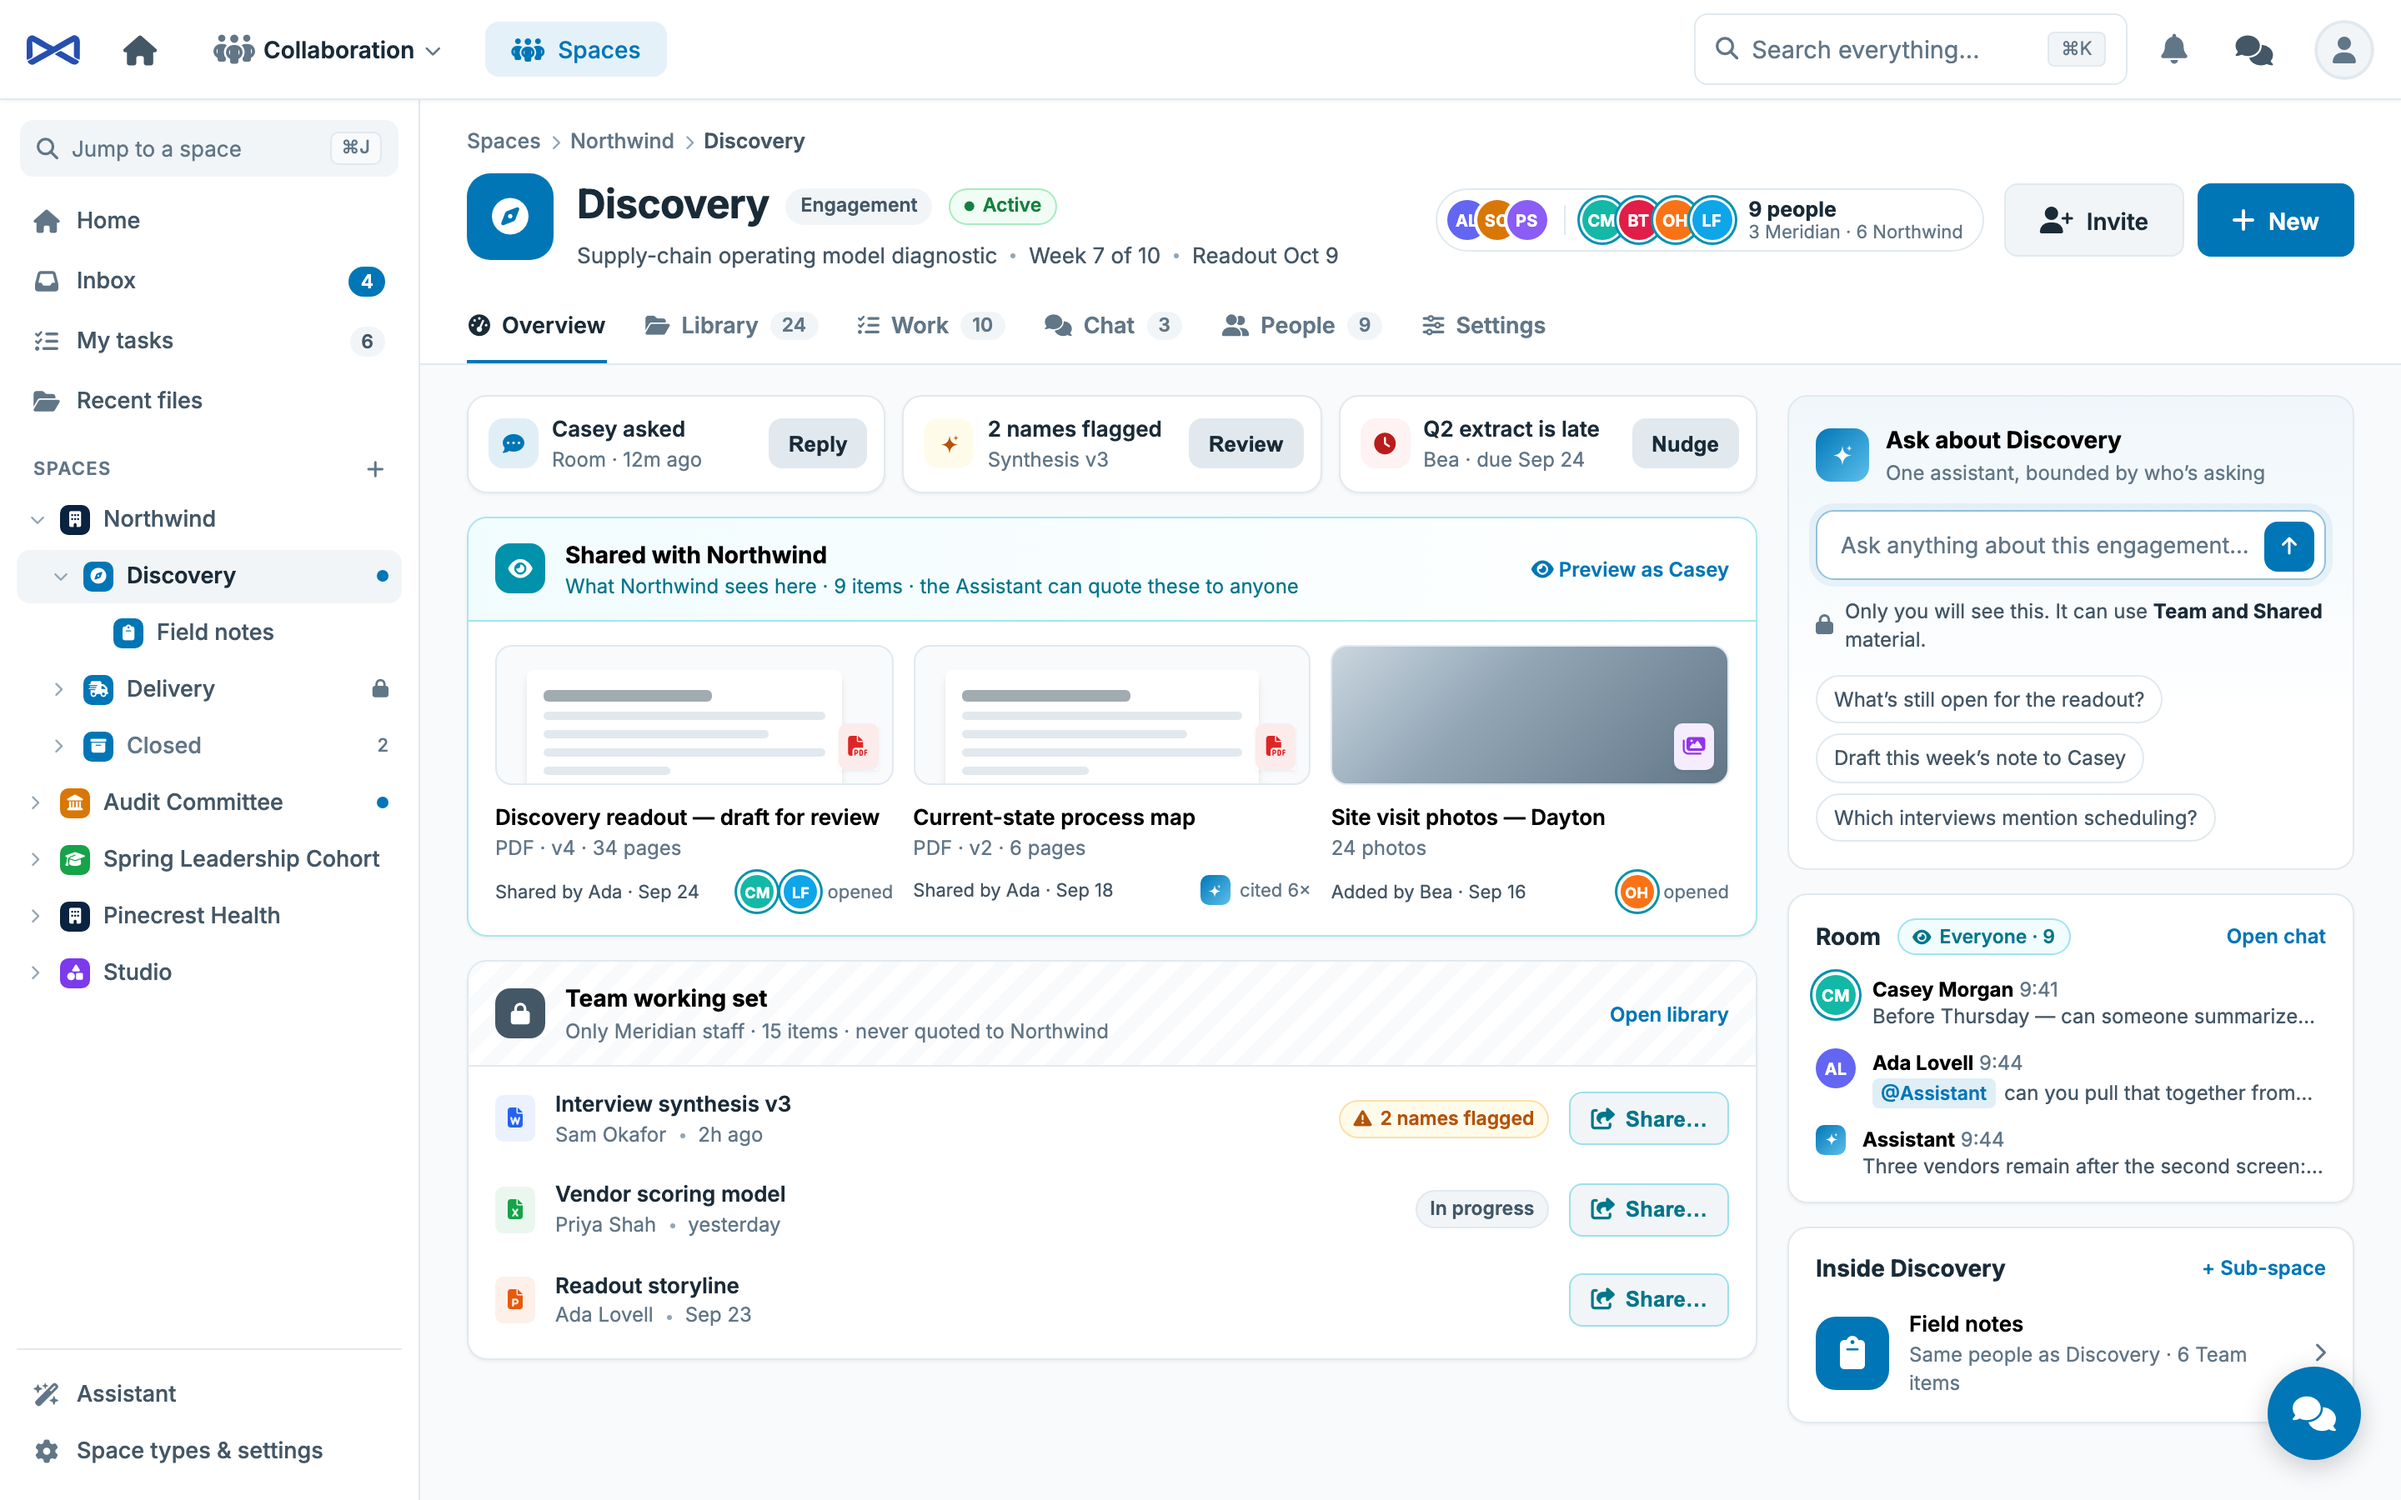
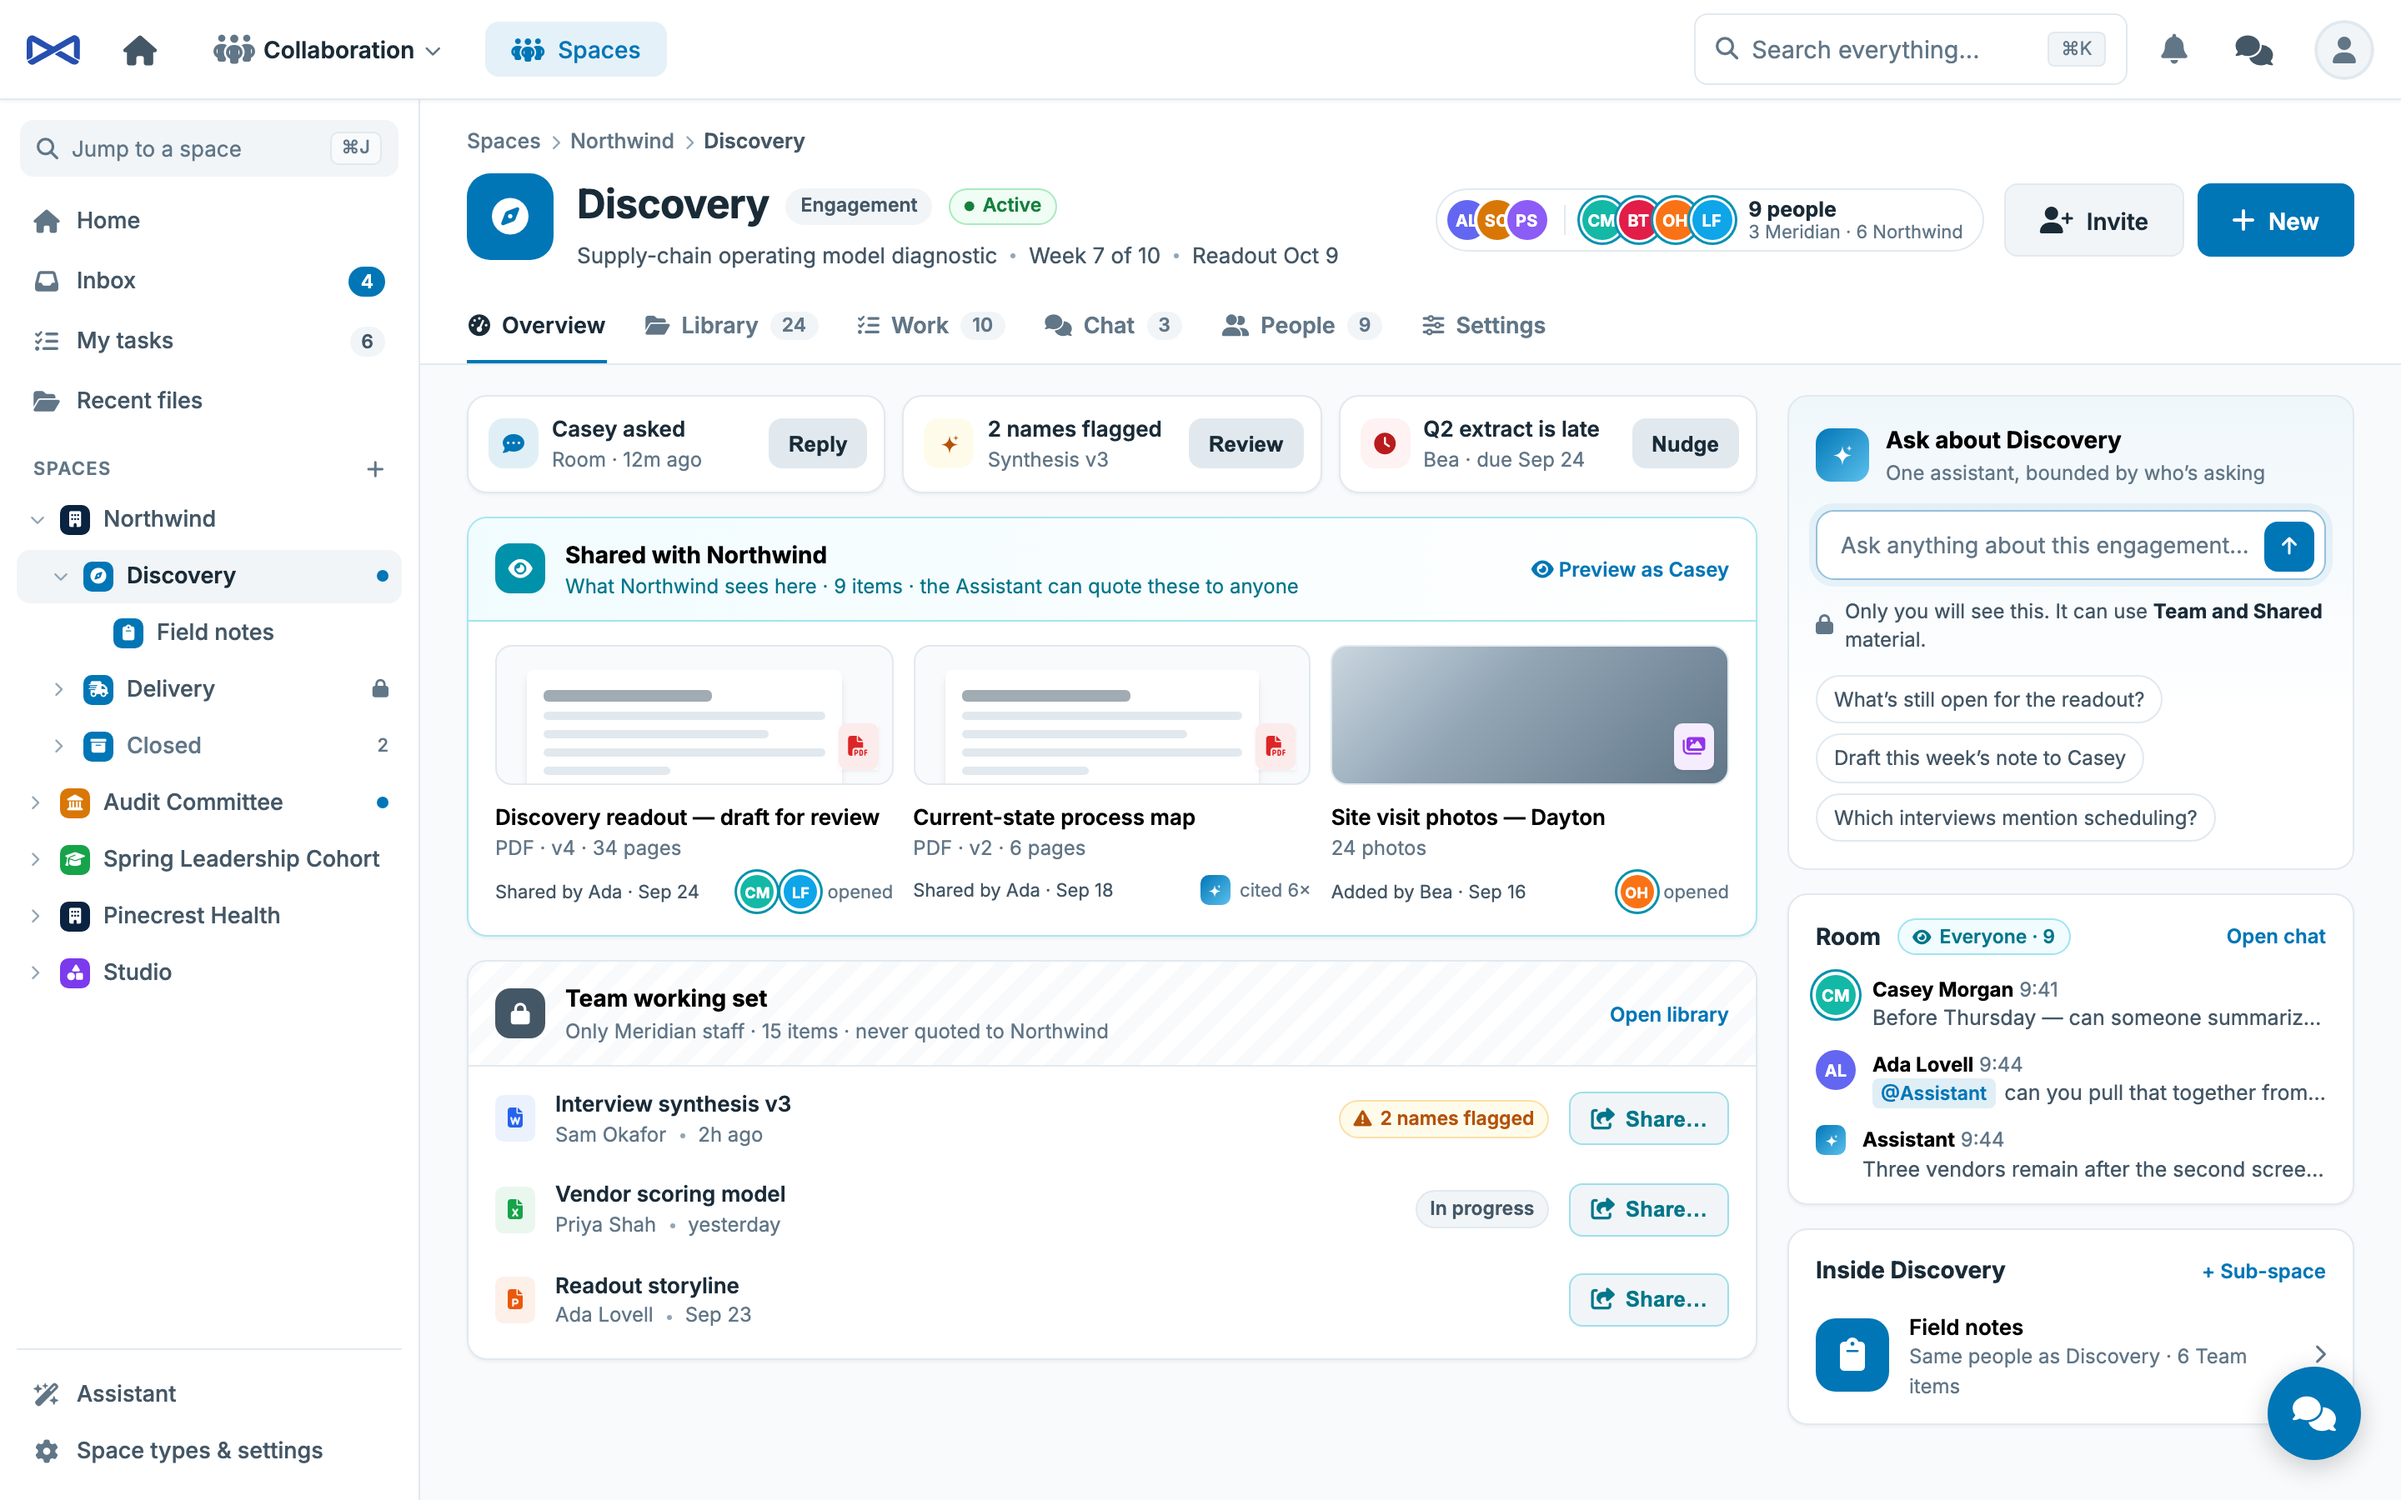
fix(collab): round 98 delivery — fs12-5 selector fix, 80px note textarea, button height alignment, and tight budgets

diff --git a/packages/AngularWidgets/src/lib/share-check.component.ts b/packages/AngularWidgets/src/lib/share-check.component.ts
@@ -44,7 +44,7 @@ import { COLLAB_TOKENS_CSS } from './tokens';
               <div class="pp more">
                 <mjc-avatar [Initials]="'+' + (p.moreCount || 2)" Size="sm" ColorClass="c7" [IsOutside]="true" />
                 <div class="grow">
-                  <div class="fw6 fs12.5">{{ p.name }}</div>
+                  <div class="fw6 fs12-5">{{ p.name }}</div>
                   <div class="fs11 muted">{{ p.role }}</div>
                 </div>
               </div>
@@ -52,7 +52,7 @@ import { COLLAB_TOKENS_CSS } from './tokens';
               <div class="pp">
                 <mjc-avatar [Avatar]="p.avatar" Size="sm" />
                 <div class="grow">
-                  <div class="fw6 fs12.5 ellipsis">{{ p.name }}</div>
+                  <div class="fw6 fs12-5 ellipsis">{{ p.name }}</div>
                   <div class="fs11 muted ellipsis">{{ p.role }}</div>
                 </div>
               </div>
@@ -72,7 +72,7 @@ import { COLLAB_TOKENS_CSS } from './tokens';
             </span>
             <div class="grow">
               <div class="fw7 fs14">{{ ReviewHeader }}</div>
-              <div class="fs12.5 secondary">{{ ReviewSub }}</div>
+              <div class="fs12-5 secondary">{{ ReviewSub }}</div>
             </div>
             <span class="chip warn">
               <i class="fa-solid fa-triangle-exclamation"></i>
@@ -138,7 +138,11 @@ import { COLLAB_TOKENS_CSS } from './tokens';
   `,
   styles: [COLLAB_TOKENS_CSS, `
     :host {
-      display: block;
+      display: flex;
+      flex-direction: column;
+      max-height: 100%;
+      min-height: 0;
+      box-sizing: border-box;
       font-family: var(--mj-font-family, Inter, sans-serif);
       font-size: 14px;
       line-height: var(--mjc-line-height);
@@ -150,6 +154,7 @@ import { COLLAB_TOKENS_CSS } from './tokens';
       gap: 14px;
       padding: 20px 22px 16px;
       border-bottom: 1px solid var(--mj-border-default);
+      flex: none;
     }
 
     .m-ic {
@@ -191,6 +196,9 @@ import { COLLAB_TOKENS_CSS } from './tokens';
       display: flex;
       flex-direction: column;
       gap: 14px;
+      overflow-y: auto;
+      flex: 1 1 auto;
+      min-height: 0;
     }
 
     .audience-sub {
@@ -277,17 +285,18 @@ import { COLLAB_TOKENS_CSS } from './tokens';
 
     .apply-btn {
       margin-left: auto;
-      height: 28px;
-      padding: 0 10px;
+      min-height: 32px;
+      height: 33.5px;
+      padding: 0 12px;
       border-radius: var(--mj-radius-sm);
       border: 1px solid var(--mj-border-default);
       background: var(--mj-bg-surface);
-      font-size: 12px;
+      font-size: 13px;
       font-weight: 500;
       cursor: pointer;
       display: inline-flex;
       align-items: center;
-      gap: 5px;
+      gap: 6px;
 
       &:hover {
         background: var(--mj-bg-surface-hover);
@@ -309,11 +318,12 @@ import { COLLAB_TOKENS_CSS } from './tokens';
     }
 
     .note-textarea {
-      min-height: 62px;
-      height: 62px;
+      min-height: 80px;
+      height: 80px;
       width: 100%;
       box-sizing: border-box;
       resize: none;
+      display: block;
     }
 
     .textarea {
@@ -398,6 +408,7 @@ import { COLLAB_TOKENS_CSS } from './tokens';
       border-top: 1px solid var(--mj-border-default);
       background: var(--mj-bg-surface-card);
       margin-top: 6px;
+      flex: none;
     }
 
     .cancel-btn {
@@ -405,9 +416,10 @@ import { COLLAB_TOKENS_CSS } from './tokens';
     }
 
     .btn {
-      height: 38px;
-      padding: 0 16px;
-      border-radius: var(--mj-radius-sm);
+      min-height: 44px;
+      height: 44px;
+      padding: 0 20px;
+      border-radius: var(--mj-radius-md);
       border: 1px solid var(--mj-border-default);
       background: var(--mj-bg-surface);
       color: var(--mj-text-primary);
@@ -416,7 +428,16 @@ import { COLLAB_TOKENS_CSS } from './tokens';
       cursor: pointer;
       display: inline-flex;
       align-items: center;
-      gap: 7px;
+      justify-content: center;
+      gap: 8px;
+
+      &.sm {
+        min-height: 32px;
+        height: 33.5px;
+        padding: 0 12px;
+        font-size: 13px;
+        gap: 6px;
+      }
 
       &.primary {
         background: var(--mj-brand-primary);
@@ -491,7 +512,7 @@ import { COLLAB_TOKENS_CSS } from './tokens';
     .fw7 { font-weight: 700; }
     .fs11 { font-size: 11px; }
     .fs12 { font-size: 12px; }
-    .fs12.5 { font-size: 12.5px; }
+    .fs12-5 { font-size: 12.5px; }
     .fs13 { font-size: 13px; }
     .fs14 { font-size: 14px; }
     .muted { color: var(--mj-text-muted); }

diff --git a/packages/AngularWidgets/src/lib/item-preview.component.ts b/packages/AngularWidgets/src/lib/item-preview.component.ts
@@ -81,7 +81,7 @@ import { COLLAB_TOKENS_CSS } from './tokens';
               } @else if (use.avatar) {
                 <mjc-avatar [Avatar]="use.avatar" Size="xs" />
               }
-              <span class="grow fs12.5">
+              <span class="grow fs12-5">
                 @for (part of parseRecentUseText(use.text); track $index) {
                   @if (part.isBold) {
                     <b>{{ part.text }}</b>
@@ -161,6 +161,7 @@ import { COLLAB_TOKENS_CSS } from './tokens';
       box-sizing: border-box;
 
       p {
+        font-size: 10.5px;
         margin: 0 0 8px;
       }
 
@@ -274,7 +275,7 @@ import { COLLAB_TOKENS_CSS } from './tokens';
     .fw6 { font-weight: 600; }
     .fw7 { font-weight: 700; }
     .fs12 { font-size: 12px; }
-    .fs12.5 { font-size: 12.5px; }
+    .fs12-5 { font-size: 12.5px; }
     .fs13 { font-size: 13px; }
     .fs14 { font-size: 14px; }
     .muted { color: var(--mj-text-muted); }

diff --git a/packages/AngularWidgets/src/lib/space-overview.component.ts b/packages/AngularWidgets/src/lib/space-overview.component.ts
@@ -163,7 +163,7 @@ export interface SubSpaceSummary {
                       <b>{{ msg.senderName }}</b>
                       <span class="muted timestamp">&nbsp;{{ msg.timestamp }}</span>
                     </div>
-                    <div class="fs12.5 secondary clamp">
+                    <div class="fs12-5 secondary clamp">
                       @if (msg.hasMention) {
                         <span class="mention">{{ msg.mentionText }}</span><span>&nbsp;</span>
                       }
@@ -377,7 +377,7 @@ export interface SubSpaceSummary {
     .fw7 { font-weight: 700; }
     .fs11 { font-size: 11px; }
     .fs12 { font-size: 12px; }
-    .fs12.5 { font-size: 12.5px; }
+    .fs12-5 { font-size: 12.5px; }
     .fs13 { font-size: 13px; }
     .fs14 { font-size: 14px; }
     .muted { color: var(--mj-text-muted); }

diff --git a/e2e/specs/frame-04-share-check.spec.ts b/e2e/specs/frame-04-share-check.spec.ts
@@ -155,8 +155,8 @@ test.describe('Frame 04 — Share Check Dialog', () => {
         const diffRatio = numDiffPixels / totalPixels;
         console.log(`Frame 04 Share Check visual diff: ${numDiffPixels} / ${totalPixels} pixels (${(diffRatio * 100).toFixed(2)}%)`);
 
-        // Budget: Full Chromium font antialiasing on backdrop + modal (CI: <= 200,000 px, local: <= 210,000 px)
-        const budget = process.env.CI ? 200000 : 210000;
+        // Budget: Full Chromium font antialiasing on backdrop + modal (CI Linux: <= 100,000 px [measured 98,665 repeatable + margin for Linux FreeType variation], local macOS: <= 105,000 px)
+        const budget = process.env.CI ? 100000 : 105000;
         expect(numDiffPixels).toBeLessThanOrEqual(budget);
     });
 });

diff --git a/e2e/specs/frame-03-library.spec.ts b/e2e/specs/frame-03-library.spec.ts
@@ -148,8 +148,8 @@ test.describe('Frame 03 — Space Library', () => {
         const diffRatio = numDiffPixels / totalPixels;
         console.log(`Frame 03 Library visual diff: ${numDiffPixels} / ${totalPixels} pixels (${(diffRatio * 100).toFixed(2)}%)`);
 
-        // Budget: Full Chromium font antialiasing across all 8 rows & preview drawer (CI: <= 130,000 px, local: <= 145,000 px)
-        const budget = process.env.CI ? 130000 : 145000;
+        // Budget: Full Chromium font antialiasing across all 8 rows & preview drawer (CI: <= 115,661 px [measured 115,561 + 100 margin], local: <= 145,000 px)
+        const budget = process.env.CI ? 115661 : 145000;
         expect(numDiffPixels).toBeLessThanOrEqual(budget);
     });
 });

diff --git a/e2e/specs/frame-02-chrome.spec.ts b/e2e/specs/frame-02-chrome.spec.ts
@@ -246,8 +246,8 @@ test.describe('Frame 02 Chrome — Space Overview', () => {
         const diffRatio = numDiffPixels / totalPixels;
         console.log(`Frame 02 Full Overview visual diff: ${numDiffPixels} / ${totalPixels} pixels (${(diffRatio * 100).toFixed(2)}%)`);
 
-        // Frame 02 full frame budget (CI Linux full Chromium: <= 41,500 px; macOS text antialiasing: <= 55,000 px)
-        const budget = process.env.CI ? 41500 : 55000;
+        // Frame 02 full frame budget (CI Linux full Chromium: <= 40,234 px [measured 40,134 + 100 margin]; macOS text antialiasing: <= 55,000 px)
+        const budget = process.env.CI ? 40234 : 55000;
         expect(numDiffPixels).toBeLessThanOrEqual(budget);
     });
 });

diff --git a/packages/AngularWidgets/src/lib/share-check-dialog.component.ts b/packages/AngularWidgets/src/lib/share-check-dialog.component.ts
@@ -56,6 +56,9 @@ import { COLLAB_TOKENS_CSS } from './tokens';
       left: 50%;
       top: 50%;
       width: 680px;
+      max-height: calc(100% - 24px);
+      display: flex;
+      flex-direction: column;
       transform: translate(-50%, -50%);
       background: var(--mj-bg-surface);
       border-radius: 16px;
